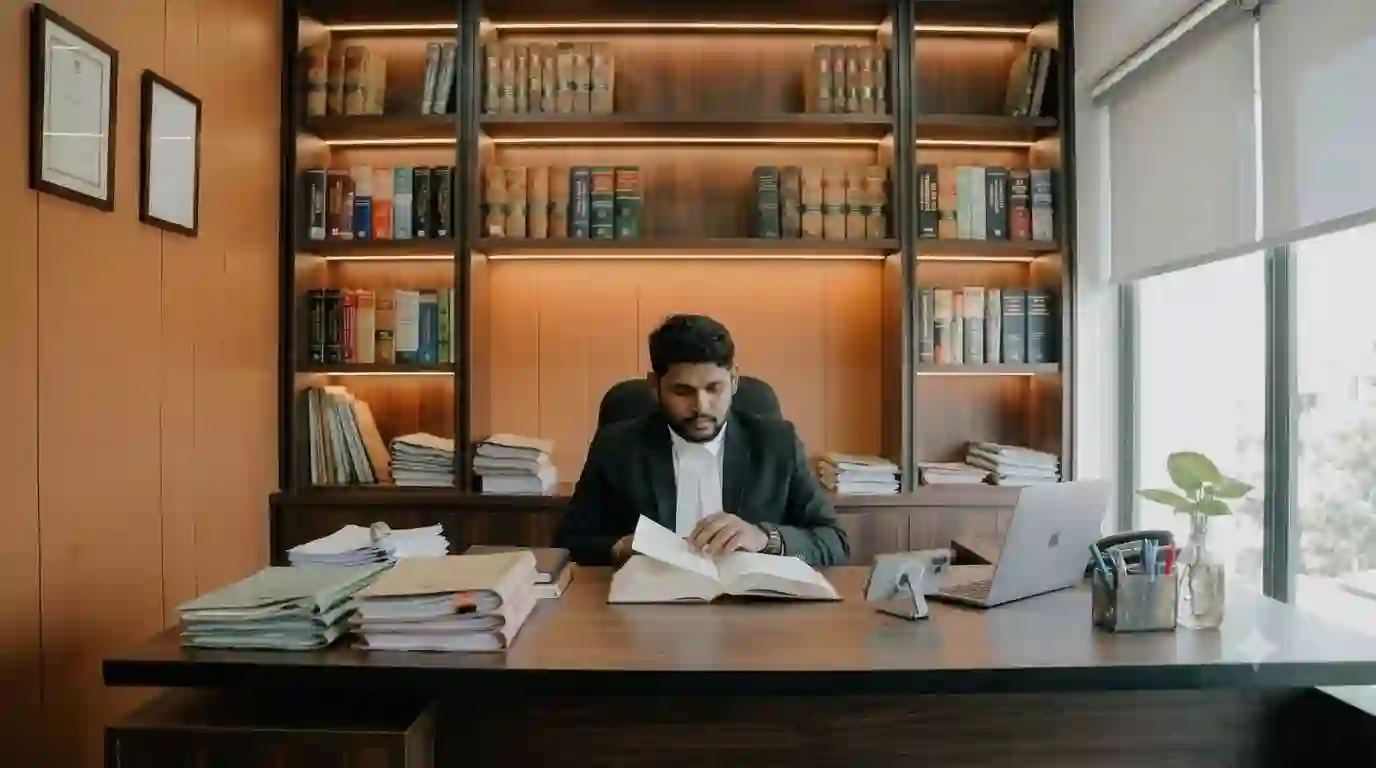
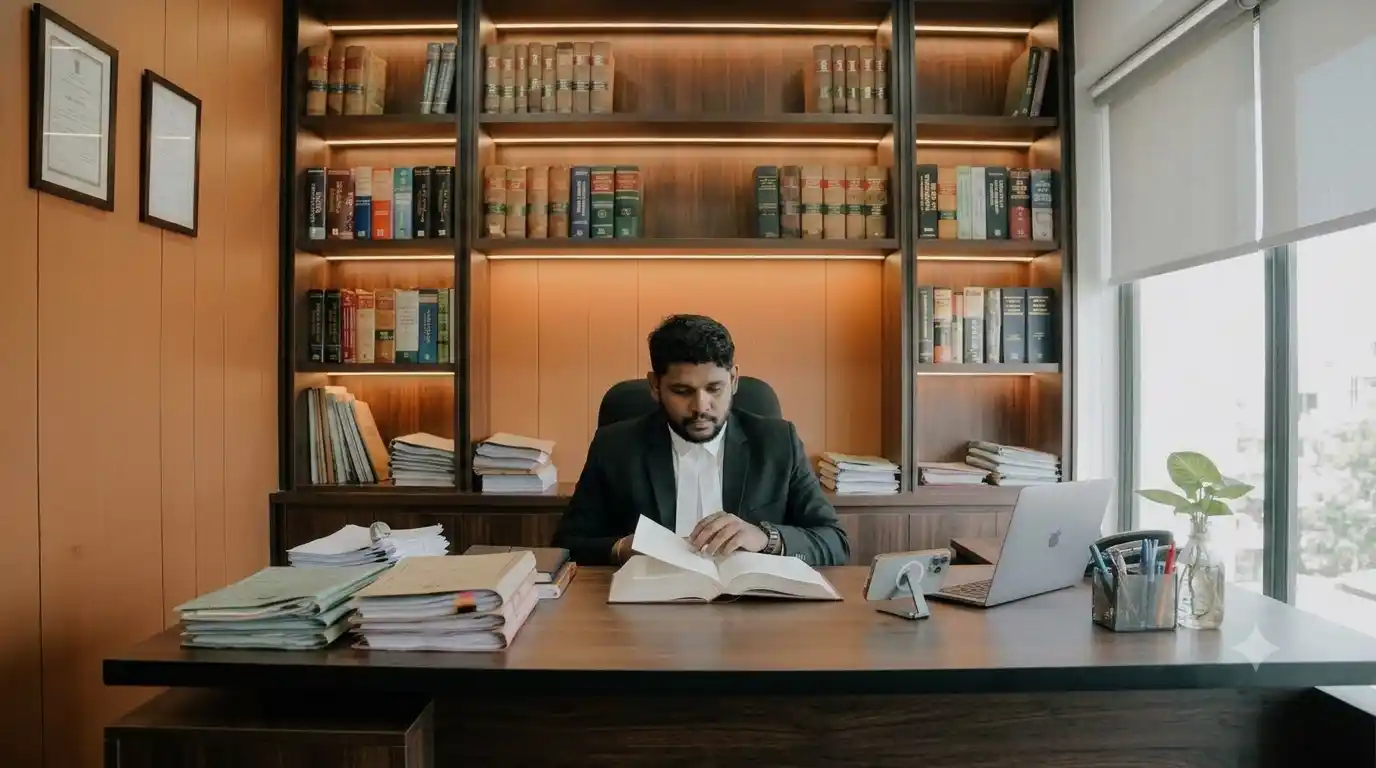
hero section updated

diff --git a/index.html b/index.html
@@ -115,7 +115,7 @@
             <!-- <span class="hero-bar" aria-hidden="true"></span> -->
 
             <p
-              class="mt-4 text-3xl font-bold leading-[1.05] tracking-tight text-white sm:mt-6 sm:text-3xl sm:font-semibold sm:leading-tight">
+              class="mt-4 text-3xl font-bold leading-[1.05] tracking-tight text-white sm:mt-6 sm:text-4xl sm:font-semibold sm:leading-tight">
               Adv. Abijith Prasad
             </p>
 
@@ -378,16 +378,9 @@
             <p class="mt-2 text-2xl font-bold">Kunnamkulam</p>
           </li>
 
-
-          <li
-            class="reveal rounded-xl border border-blue-300/20 bg-[#12304A]/90 p-6 text-white shadow-lg shadow-black/10"
-            data-delay="300">
-            <p class="text-xs font-semibold uppercase tracking-wider text-blue-200/60">
-              Ernakulam
-            </p>
-            <p class="mt-2 text-2xl font-extrabold text-white" data-ml="കേരള ഹൈക്കോടതി">
-              High Court of Kerala
-            </p>
+          <li class="fact-card reveal rounded-xl p-6" data-delay="240">
+            <p class="text-xs font-medium uppercase tracking-wider text-white/50">Ernakulam</p>
+            <p class="mt-2 text-2xl font-bold">High Court of Kerala</p>
           </li>
 
 

diff --git a/custom.css b/custom.css
@@ -115,7 +115,7 @@ body.no-scroll{overflow:hidden}
   position: absolute;
   inset: 0;
   z-index: -20;
-  background: linear-gradient(90deg, rgba(10,15,21,.88) 0%, rgba(10,15,21,.68) 48%, rgba(10,15,21,.48) 100%);
+  background: linear-gradient(90deg, rgba(10,15,21,.66) 0%, rgba(10,15,21,.48) 48%, rgba(10,15,21,.28) 100%);
 }
 
 .hero-grid-overlay {
